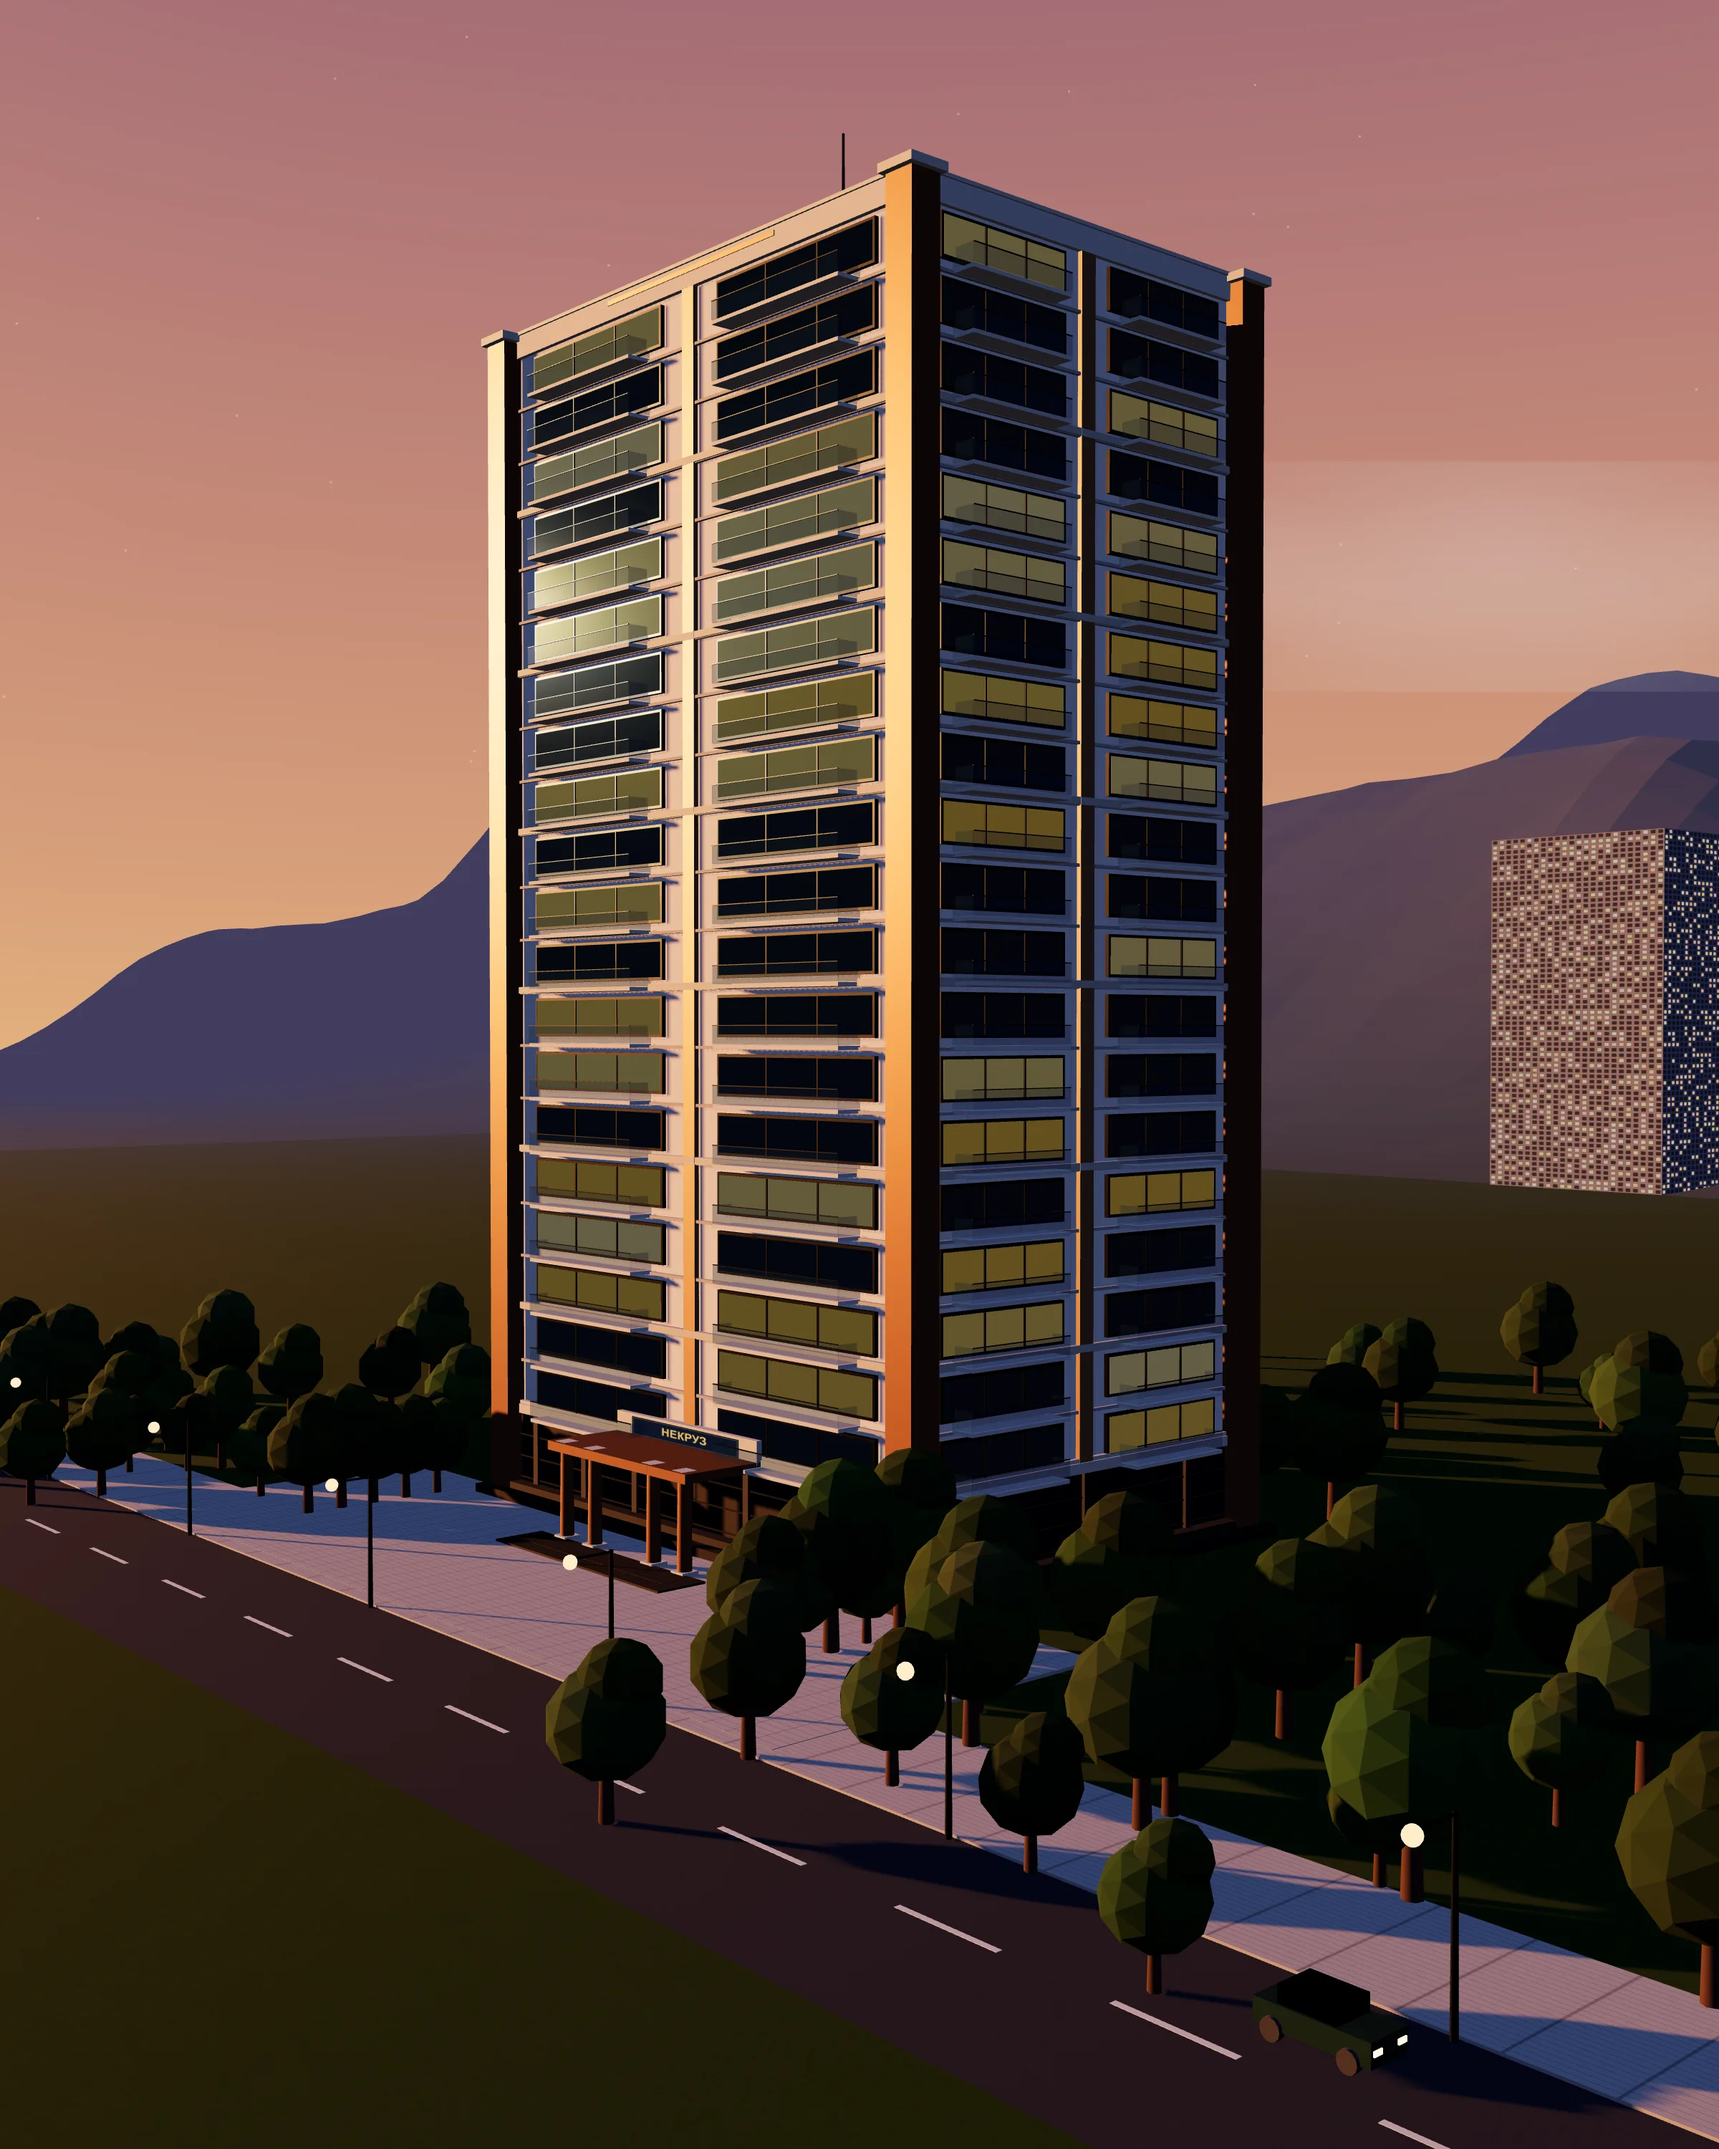
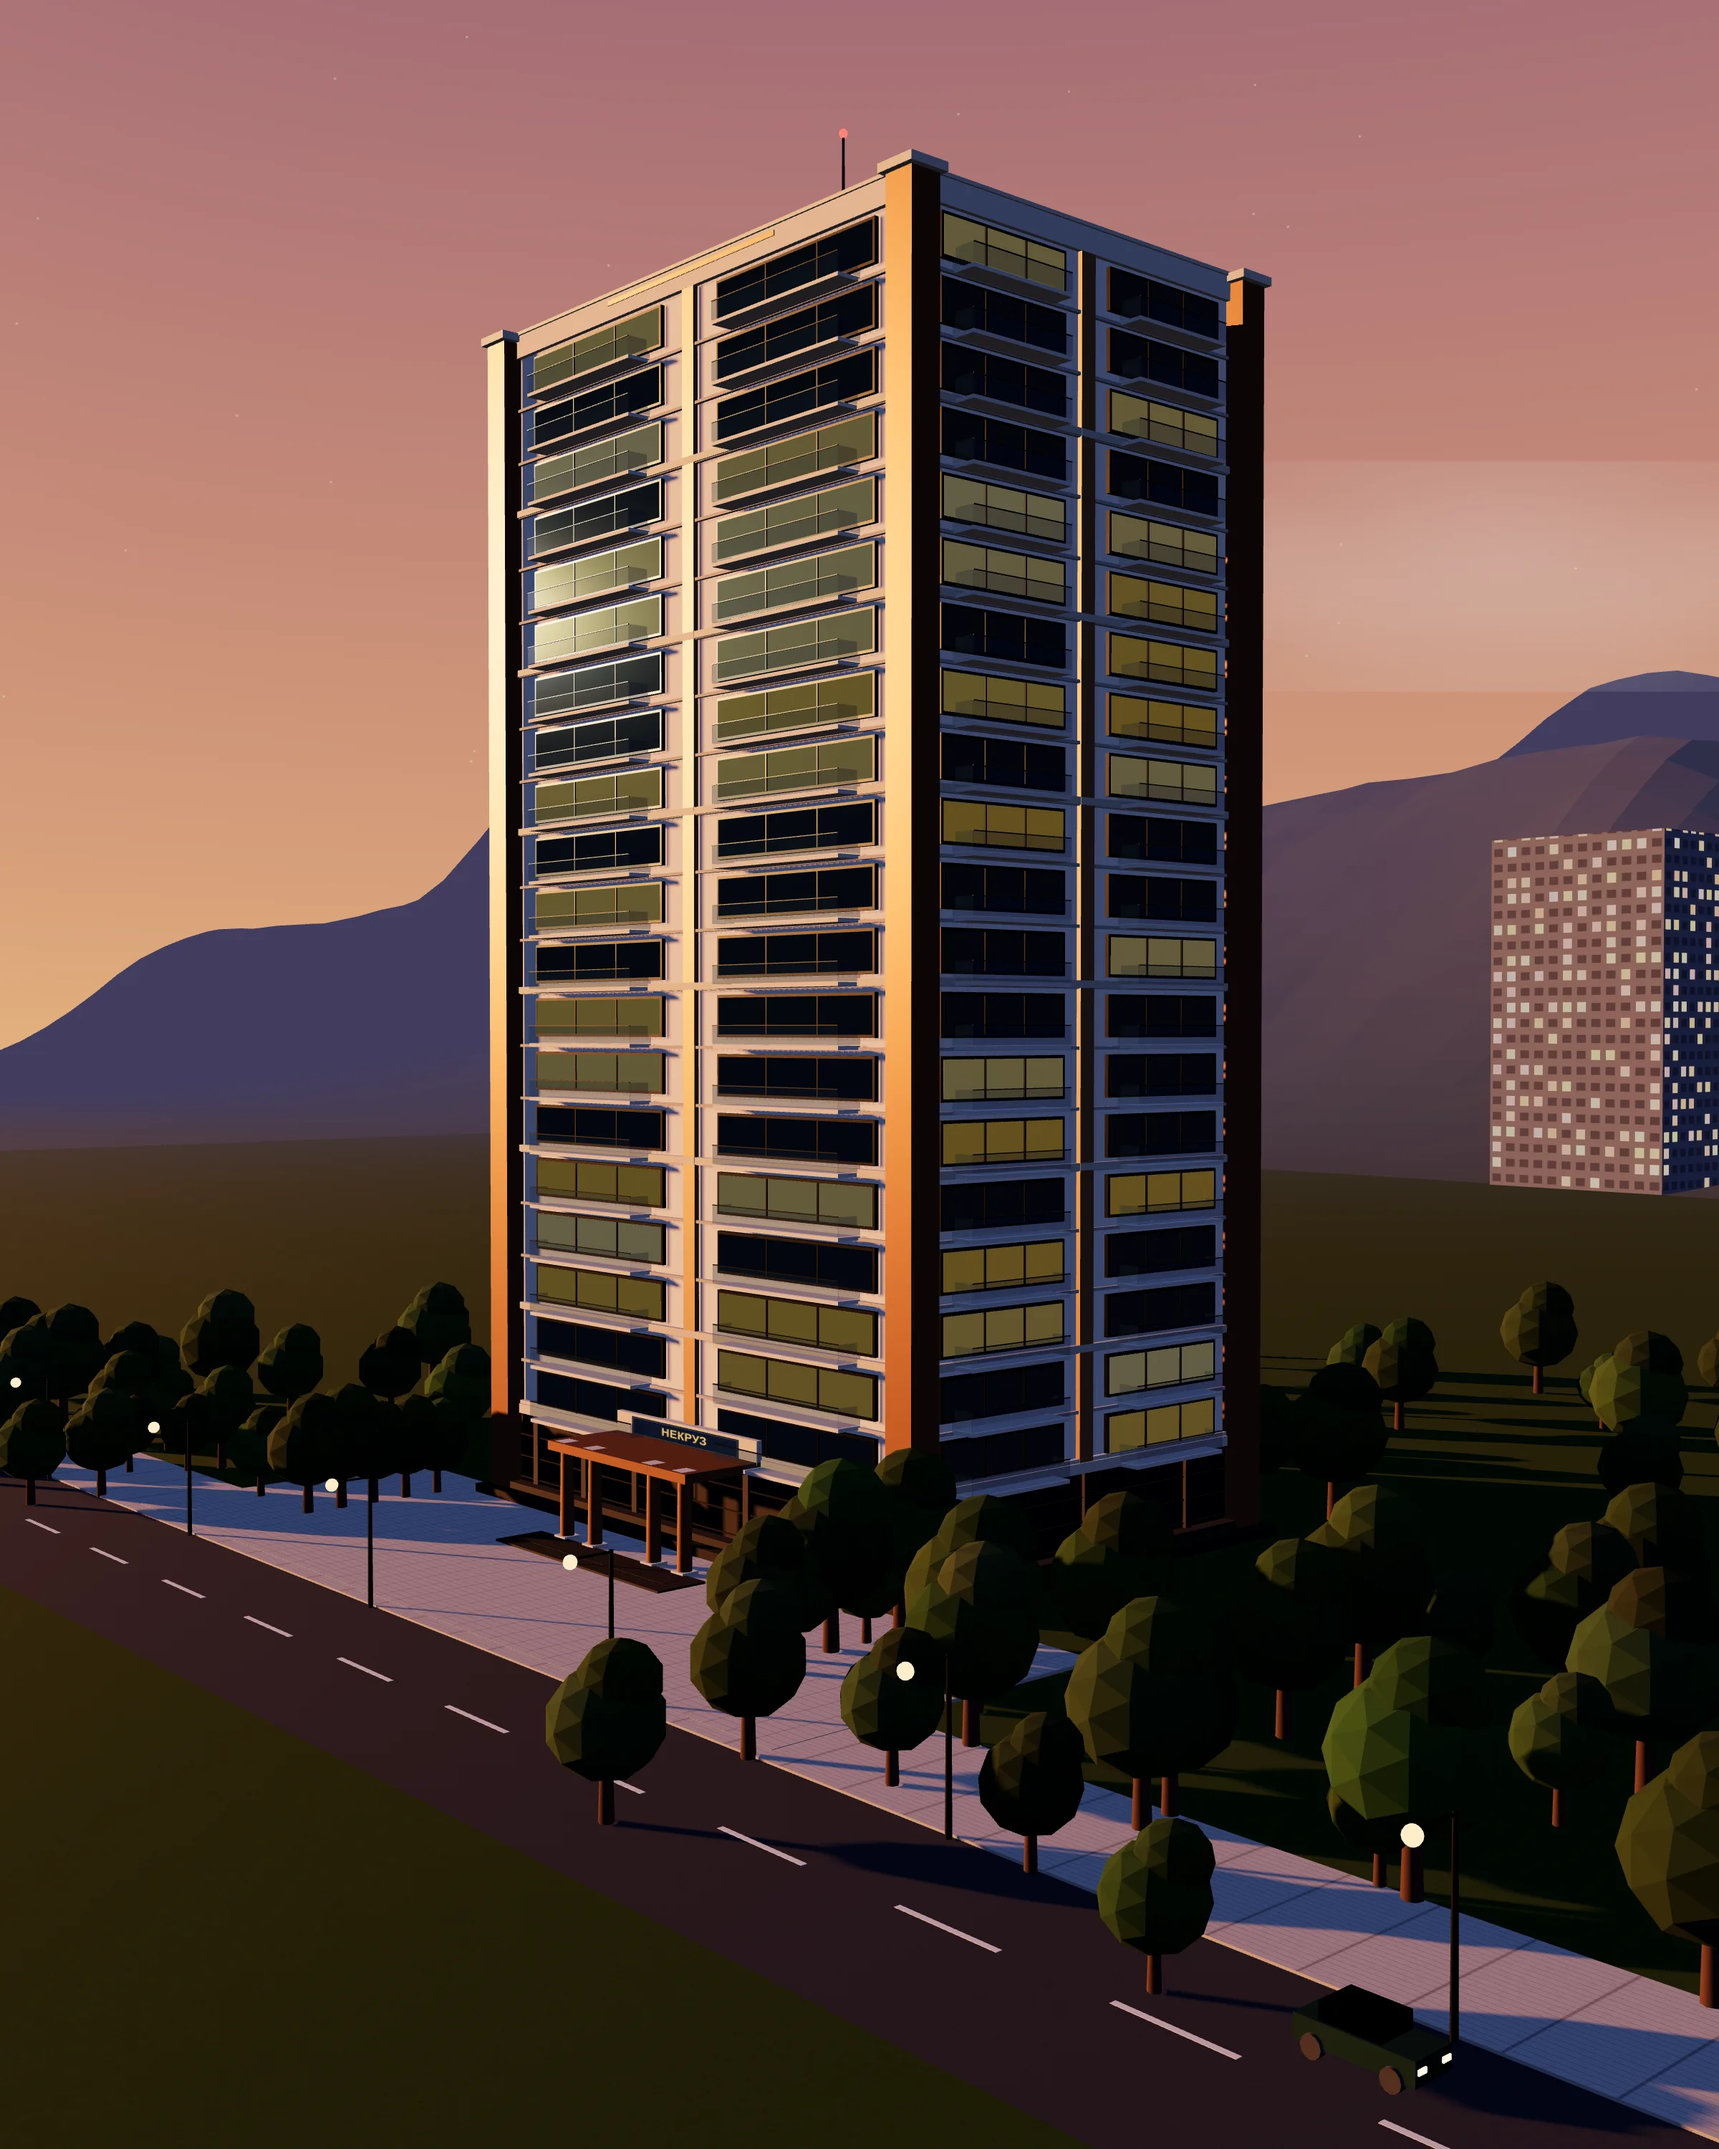
fix(3d): соседние дома без зернистой ряби, кадры перерендерены; событие первого кадра
Окна соседних домов — шаг 3 м и мягкий контраст. Сцена сообщает о первом кадре
(is-ready, onReady) — сайт убирает заглушку.

Changed region(s): [[0.8438, 0.372, 1.0, 0.558], [0.7188, 0.899, 0.8438, 0.992], [0.8438, 0.961, 1.0, 0.992]]

diff --git a/frontend/js/modeli-3d-bino-script.js b/frontend/js/modeli-3d-bino-script.js
@@ -130,8 +130,9 @@
     const r = rnd(seed);
     for (let y = 0; y < 32; y++) for (let x = 0; x < 16; x++) cells.push([r(), r(), r()]);
     const alb = canvasTex(256, 512, (g, w, h) => {
-      g.fillStyle = '#8a8f99'; g.fillRect(0, 0, w, h);
-      cells.forEach((c, i) => { const x = (i % 16) * 16, y = Math.floor(i / 16) * 16; g.fillStyle = '#1d2433'; g.fillRect(x + 3, y + 3, 10, 10); });
+      g.fillStyle = '#7d828c'; g.fillRect(0, 0, w, h);
+      // Windows a little darker than the wall: far away a high-contrast grid turned into grey-white noise.
+      cells.forEach((c, i) => { const x = (i % 16) * 16, y = Math.floor(i / 16) * 16; g.fillStyle = '#4b5261'; g.fillRect(x + 3, y + 4, 10, 8); });
     });
     const em = canvasTex(256, 512, (g, w, h) => {
       g.fillStyle = '#000'; g.fillRect(0, 0, w, h);
@@ -314,7 +315,8 @@
       neighbourMat = [];
       spots.forEach(([x, z, w, h, d], i) => {
         const tx = skylineTextures(40 + i);
-        const mk = (rx) => { const a = tx.alb.clone(), e = tx.em.clone(); a.needsUpdate = e.needsUpdate = true; a.repeat.set(rx / 24, h / 32); e.repeat.copy(a.repeat); return new T.MeshStandardMaterial({ map: a, emissiveMap: e, emissive: new T.Color(0xffffff), emissiveIntensity: 0.05, roughness: 0.75 }); };
+        // The texture is 16 × 32 windows: one every 3 m across and one floor every 3 m up (denser read as noise far away).
+        const mk = (rx) => { const a = tx.alb.clone(), e = tx.em.clone(); a.needsUpdate = e.needsUpdate = true; a.repeat.set(rx / 48, h / 96); e.repeat.copy(a.repeat); return new T.MeshStandardMaterial({ map: a, emissiveMap: e, emissive: new T.Color(0xffffff), emissiveIntensity: 0.05, roughness: 0.75 }); };
         const mA = mk(w), mB = mk(d); neighbourMat.push(mA, mB);
         const b = new T.Mesh(new T.BoxGeometry(w, h, d), [mB, mB, roofM, roofM, mA, mA]);
         b.position.set(x, h / 2 - 3, z); b.castShadow = true; b.receiveShadow = true; scene.add(b);
@@ -965,8 +967,10 @@
       });
       clouds.forEach((c) => { c.position.x += c.userData.v * dt; if (c.position.x > 900) c.position.x = -900; });
       renderer.render(scene, camera);
+      // The first frame is on screen: the page can take away its placeholder picture.
+      if (!drawnOnce) { drawnOnce = true; container.classList.add('is-ready'); if (opts.onReady) opts.onReady(); }
     }
-    var animIdx;
+    var animIdx, drawnOnce = false;
 
     function resize() {
       const w = container.clientWidth || 800, h = container.clientHeight || 500;
